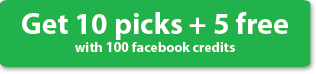
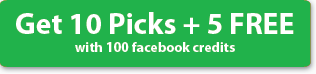
changed Picks buttons and share this app

diff --git a/public/stylesheets/style.css b/public/stylesheets/style.css
@@ -52,8 +52,14 @@ margin-left: -8px;
 }
 
 #share {
-padding-top:12px;
+padding-top:14px;
 padding-left:20px;
+
+}
+
+#header .fb-share {
+float:left;
+margin:-14px 10px 0 12px;
 
 }
 
@@ -378,12 +384,25 @@ font-weight:bold;
 }
 .show-all-btn {
 color:#e63028;
-
+font-weight:bold;
 }
 
 .show-selected-btn {
 
 }
+
+
+.fb-share2{
+float:right;
+margin-right:10px;
+
+}
+
+.fb-share2 a {
+color:#e63028;
+margin-right:4px;
+}
+
 
 .spacer {
 height:20px;
